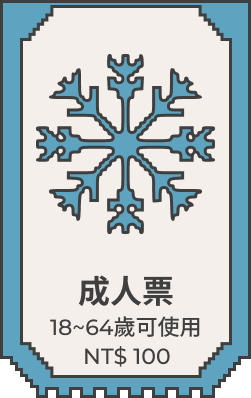
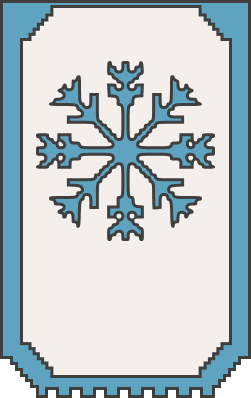
門票資訊v-for建立

diff --git a/src/views/ParkView.vue b/src/views/ParkView.vue
@@ -19,7 +19,7 @@
       
       <div v-show="show_animals" class="pk_animal_icon">
         <div v-for="num in 38" :class="`pk_animal_default pk_animal_icon${num}`" :id="`location_id${num}`">
-          <img :src="getImageUrl(num)" alt="園區動物icon的圖片">
+          <img :src="getAnimalIconUrl(num)" alt="園區動物icon的圖片">
         </div>
       </div>
 
@@ -52,42 +52,19 @@
     <section class="pk_content_bg">
       <section class="pk_Tickets">
         <div class="pk_Tickets_items">
-          <div class="pk_Tickets_item">
-            <img class="pk_Tickets_item_top" src="@/assets/images/park/pk_Tickets_item_top1.png" alt="門票上半部">
-            <img class="pk_Tickets_item_mid" src="@/assets/images/park/pk_Tickets_item_mid1.png" alt="中間的擋板">
-            <img class="pk_Tickets_item_animal" src="@/assets/images/park/pk_Tickets_item_animal1.png" alt="中間的動物">
-            <img class="pk_Tickets_item_bottom" src="@/assets/images/park/pk_Tickets_item_bottom1.png" alt="門票下半部">
-          </div>
-
-          <div class="pk_Tickets_item">
-            <img class="pk_Tickets_item_top" src="@/assets/images/park/pk_Tickets_item_top2.png" alt="門票上半部">
-            <img class="pk_Tickets_item_mid" src="@/assets/images/park/pk_Tickets_item_mid2.png" alt="中間的擋板">
-            <img class="pk_Tickets_item_animal" src="@/assets/images/park/pk_Tickets_item_animal2.png" alt="中間的動物">
-            <img class="pk_Tickets_item_bottom" src="@/assets/images/park/pk_Tickets_item_bottom2.png" alt="門票下半部">
-          </div>
-
-          <div class="pk_Tickets_item">
-            <img class="pk_Tickets_item_top" src="@/assets/images/park/pk_Tickets_item_top3.png" alt="門票上半部">
-            <img class="pk_Tickets_item_mid" src="@/assets/images/park/pk_Tickets_item_mid3.png" alt="中間的擋板">
-            <img class="pk_Tickets_item_animal" src="@/assets/images/park/pk_Tickets_item_animal3.png" alt="中間的動物">
-            <img class="pk_Tickets_item_bottom" src="@/assets/images/park/pk_Tickets_item_bottom3.png" alt="門票下半部">
-          </div>
-
-          <div class="pk_Tickets_item">
-            <img class="pk_Tickets_item_top" src="@/assets/images/park/pk_Tickets_item_top4.png" alt="門票上半部">
-            <img class="pk_Tickets_item_mid" src="@/assets/images/park/pk_Tickets_item_mid4.png" alt="中間的擋板">
-            <img class="pk_Tickets_item_animal" src="@/assets/images/park/pk_Tickets_item_animal4.png" alt="中間的動物">
-            <img class="pk_Tickets_item_bottom" src="@/assets/images/park/pk_Tickets_item_bottom4.png" alt="門票下半部">
-          </div>
-
-          <div class="pk_Tickets_item">
-            <img class="pk_Tickets_item_top" src="@/assets/images/park/pk_Tickets_item_top5.png" alt="門票上半部">
-            <img class="pk_Tickets_item_mid" src="@/assets/images/park/pk_Tickets_item_mid5.png" alt="中間的擋板">
-            <img class="pk_Tickets_item_animal" src="@/assets/images/park/pk_Tickets_item_animal5.png" alt="中間的動物">
-            <img class="pk_Tickets_item_bottom" src="@/assets/images/park/pk_Tickets_item_bottom5.png" alt="門票下半部">
-          </div>
-
+          <RouterLink v-for="(ticket, index) in tickets" :key="index" to="/ticket" class="pk_Tickets_item">
+            <img class="pk_Tickets_item_top" :src="getItemTopUrl(index+1)" alt="門票上半部">
+            <img class="pk_Tickets_item_mid" :src="getItemMidUrl(index+1)" alt="中間的擋板">
+            <img class="pk_Tickets_item_animal" :src="getItemAnimalUrl(index+1)" alt="中間的動物">
+            <img class="pk_Tickets_item_bottom" :src="getItemBottomUrl(index+1)" alt="門票下半部">
+            <div class="pk_Tickets_item_text">
+              <h1 class="pcSmTitle">{{ticket.title}}</h1>
+              <p class="pcInnerText">{{ticket.content}}</p>
+              <p class="pcInnerText">{{ticket.content2}}</p>
+            </div>
+          </RouterLink>
         </div>
+        
       </section>
 
       <section class="pk_Origin">
@@ -106,6 +83,27 @@ export default {
       show_animals:true,
       show_facilities:true,
       hover : false,
+      tickets:[{
+        title:"成人票",
+        content:"18~64歲可使用",
+        content2:"NT$ 100",
+      },{
+        title:"兒童票",
+        content:"4~11歲可使用",
+        content2:"NT$ 40",
+      },{
+        title:"成人票",
+        content:"12歲以上持學生證",
+        content2:"NT$ 80",
+      },{
+        title:"愛心票",
+        content:"65歲以上可使用",
+        content2:"NT$ 40",
+      },{
+        title:"團體票",
+        content:"15人以上可使用",
+        content2:"NT$ 60",
+      }]
     };
   },
   created() {
@@ -115,8 +113,20 @@ export default {
     // 生命週期鉤子
   },
   methods: {
-    getImageUrl(paths){
+    getAnimalIconUrl(paths){
       return new URL(`../assets/images/park/pk_animal_icon${paths}.png`, import.meta.url).href
+    },
+    getItemTopUrl(paths){
+      return new URL(`../assets/images/park/pk_Tickets_item_top${paths}.png`, import.meta.url).href
+    },
+    getItemMidUrl(paths){
+      return new URL(`../assets/images/park/pk_Tickets_item_mid${paths}.png`, import.meta.url).href
+    },
+    getItemAnimalUrl(paths){
+      return new URL(`../assets/images/park/pk_Tickets_item_animal1${paths}.png`, import.meta.url).href
+    },
+    getItemBottomUrl(paths){
+      return new URL(`../assets/images/park/pk_Tickets_item_bottom${paths}.png`, import.meta.url).href
     },
     showAnimals(){
       this.show_animals = true

diff --git a/src/assets/scss/page/park.scss b/src/assets/scss/page/park.scss
@@ -319,6 +319,9 @@
                     width: 251px;
                     height: 539px;
                     position: relative;
+                    :hover{
+                        cursor: pointer;
+                    }
                     .pk_Tickets_item_top{}
                     .pk_Tickets_item_mid{
                         position: absolute;
@@ -328,6 +331,15 @@
                     .pk_Tickets_item_animal{
                         position: absolute;
                         z-index: -2;
+                    }
+                    .pk_Tickets_item_text{
+                        display: flex;
+                        flex-direction: column;
+                        align-items: center;
+                        position: absolute;
+                        bottom: 40px;
+                        gap: 10px;
+                        color: $mainTextColor;
                     }
                 }
             }
